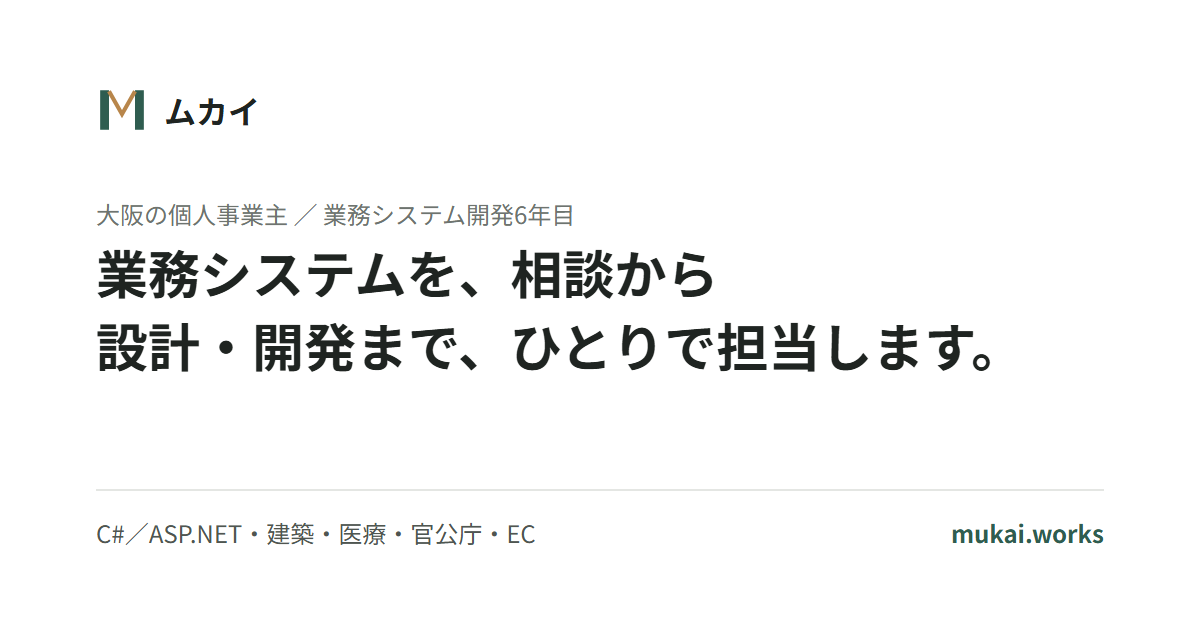
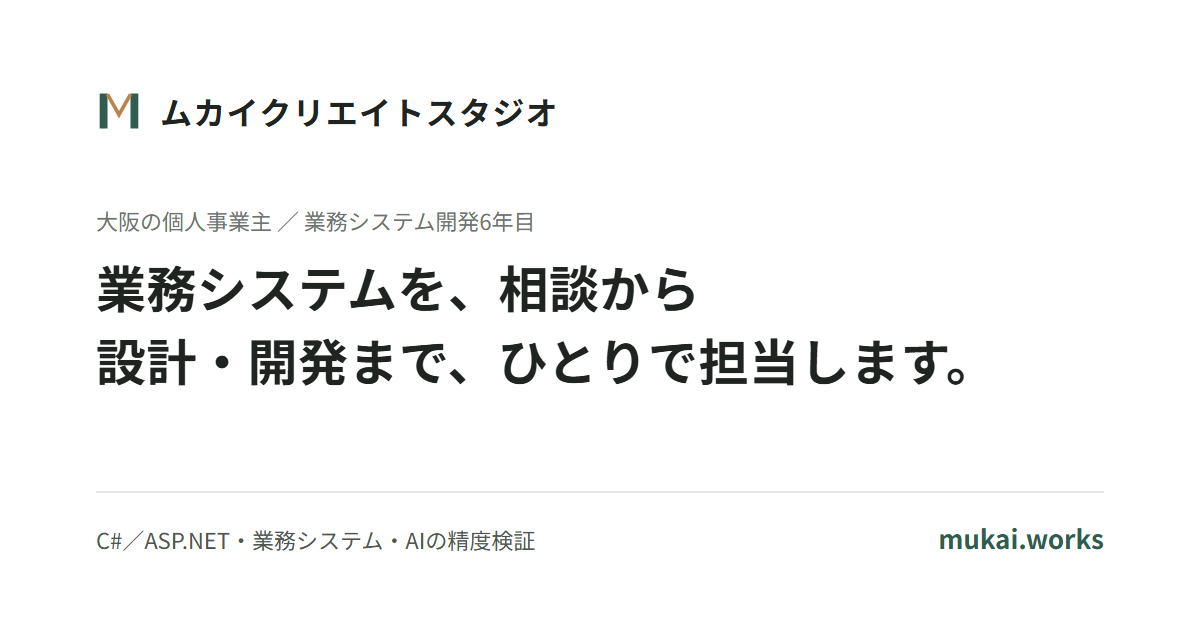
OG画像を新しい屋号で作り直し（scripts/make_og_image.py で再生成できる）

diff --git a/scripts/og_image.html b/scripts/og_image.html
@@ -1,0 +1,38 @@
+<!doctype html>
+<html lang="ja">
+<head>
+<meta charset="utf-8">
+<link rel="preconnect" href="https://fonts.googleapis.com">
+<link href="https://fonts.googleapis.com/css2?family=Noto+Sans+JP:wght@400;700&display=block" rel="stylesheet">
+<style>
+  /* OG画像（1200×630）。サイトと同じ白地・墨色・ゴシック。深緑は文字の一部だけ、金はMマークの中だけ */
+  * { box-sizing: border-box; margin: 0; }
+  html, body { width: 1200px; height: 630px; background: #ffffff; }
+  body { font-family: 'Noto Sans JP', sans-serif; color: #1f2421; padding: 88px 96px 0; position: relative; }
+  .brand { display: flex; align-items: center; gap: 18px; }
+  .brand svg { width: 46px; height: 46px; }
+  .brand span { font-size: 32px; font-weight: 700; letter-spacing: 0.04em; }
+  .label { margin-top: 70px; font-size: 22px; color: #6e746f; }
+  h1 { margin-top: 14px; font-size: 50px; font-weight: 700; line-height: 1.45; letter-spacing: 0.01em; }
+  .foot { position: absolute; left: 96px; right: 96px; bottom: 74px; border-top: 2px solid #e4e6e3; padding-top: 26px;
+          display: flex; justify-content: space-between; align-items: baseline; font-size: 22px; color: #4f5651; }
+  .foot b { color: #2f5d50; font-size: 26px; }
+</style>
+</head>
+<body>
+  <div class="brand">
+    <svg viewBox="0 0 100 100" aria-hidden="true">
+      <rect x="8" y="12" width="17" height="76" fill="#2F5D50"/>
+      <rect x="75" y="12" width="17" height="76" fill="#2F5D50"/>
+      <polyline points="25,14 50,58 75,14" fill="none" stroke="#B8864B" stroke-width="8" stroke-linejoin="miter"/>
+    </svg>
+    <span>ムカイクリエイトスタジオ</span>
+  </div>
+  <p class="label">大阪の個人事業主 ／ 業務システム開発6年目</p>
+  <h1>業務システムを、相談から<br>設計・開発まで、ひとりで担当します。</h1>
+  <div class="foot">
+    <span>C#／ASP.NET・業務システム・AIの精度検証</span>
+    <b>mukai.works</b>
+  </div>
+</body>
+</html>

diff --git a/scripts/make_og_image.py b/scripts/make_og_image.py
@@ -1,0 +1,29 @@
+"""サイト共通のOG画像（opengraph-image.png・twitter-image.png、1200×630）を作る。
+
+scripts/og_image.html をブラウザで開いて撮るだけ。文言を変えるときは HTML を直してから
+  py -3.11 scripts/make_og_image.py
+"""
+import shutil
+from pathlib import Path
+
+from playwright.sync_api import sync_playwright
+
+ROOT = Path(__file__).resolve().parent.parent
+HTML = ROOT / "scripts" / "og_image.html"
+OG = ROOT / "src" / "app" / "opengraph-image.png"
+TW = ROOT / "src" / "app" / "twitter-image.png"
+
+with sync_playwright() as p:
+    browser = p.chromium.launch()
+    page = browser.new_page(viewport={"width": 1200, "height": 630})
+    page.goto(HTML.as_uri(), wait_until="networkidle")
+    page.evaluate("document.fonts.ready")
+    ok = page.evaluate("document.fonts.check('700 32px \"Noto Sans JP\"')")
+    if not ok:
+        raise SystemExit("Noto Sans JP が読み込めていません（ネット接続を確認）")
+    page.screenshot(path=str(OG), clip={"x": 0, "y": 0, "width": 1200, "height": 630})
+    browser.close()
+
+shutil.copyfile(OG, TW)
+print("保存:", OG)
+print("保存:", TW)
